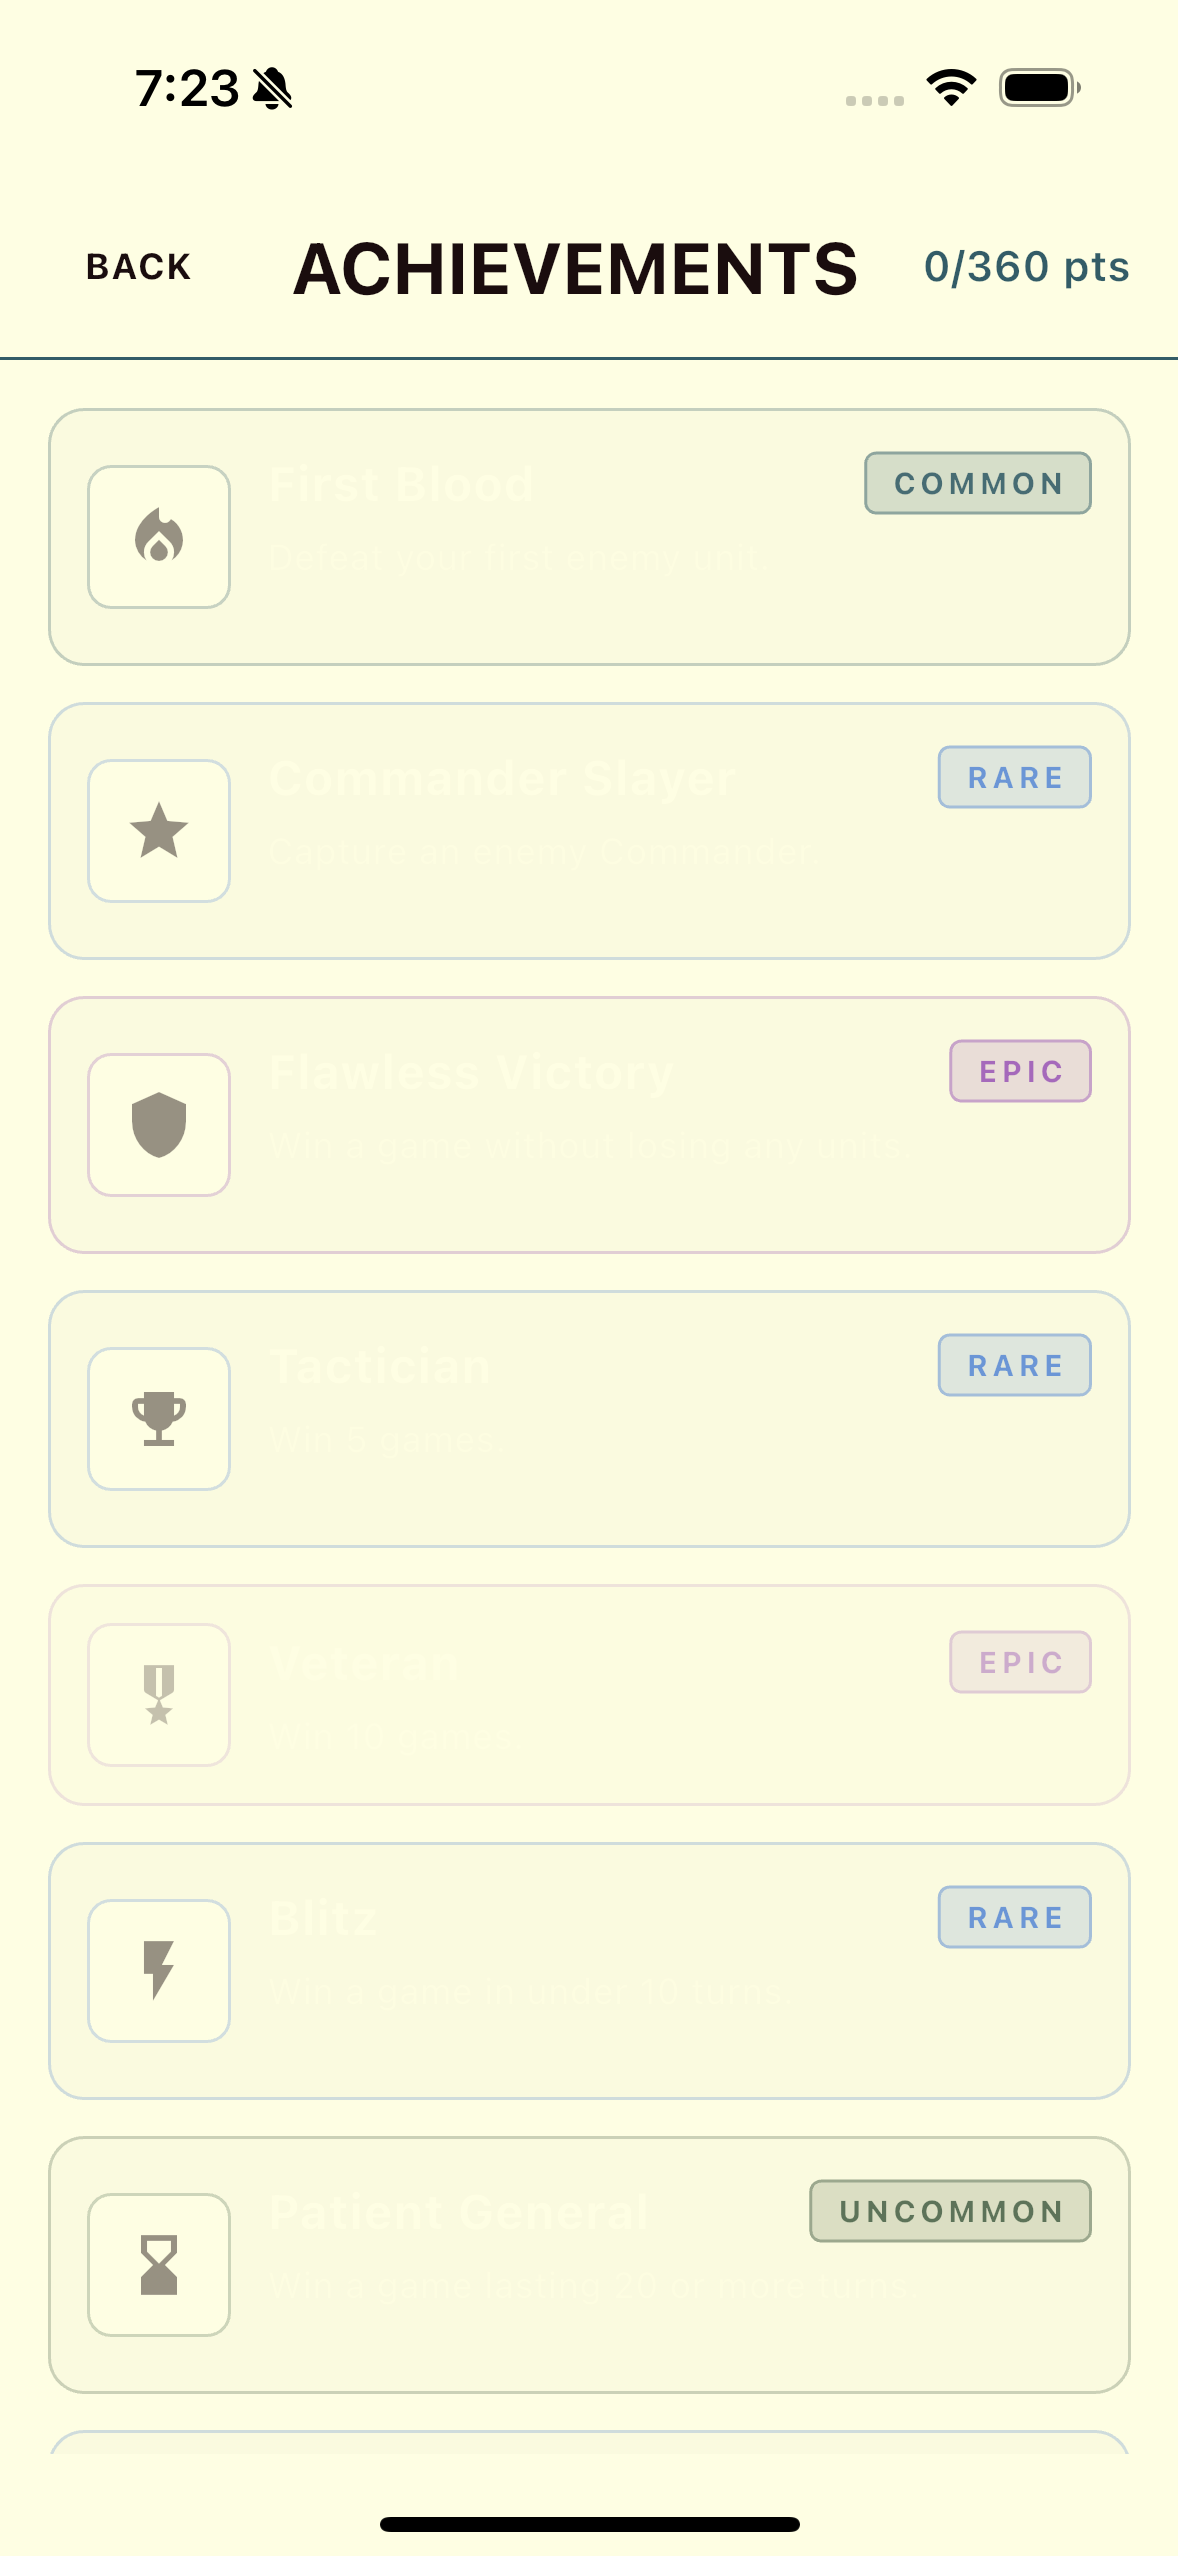
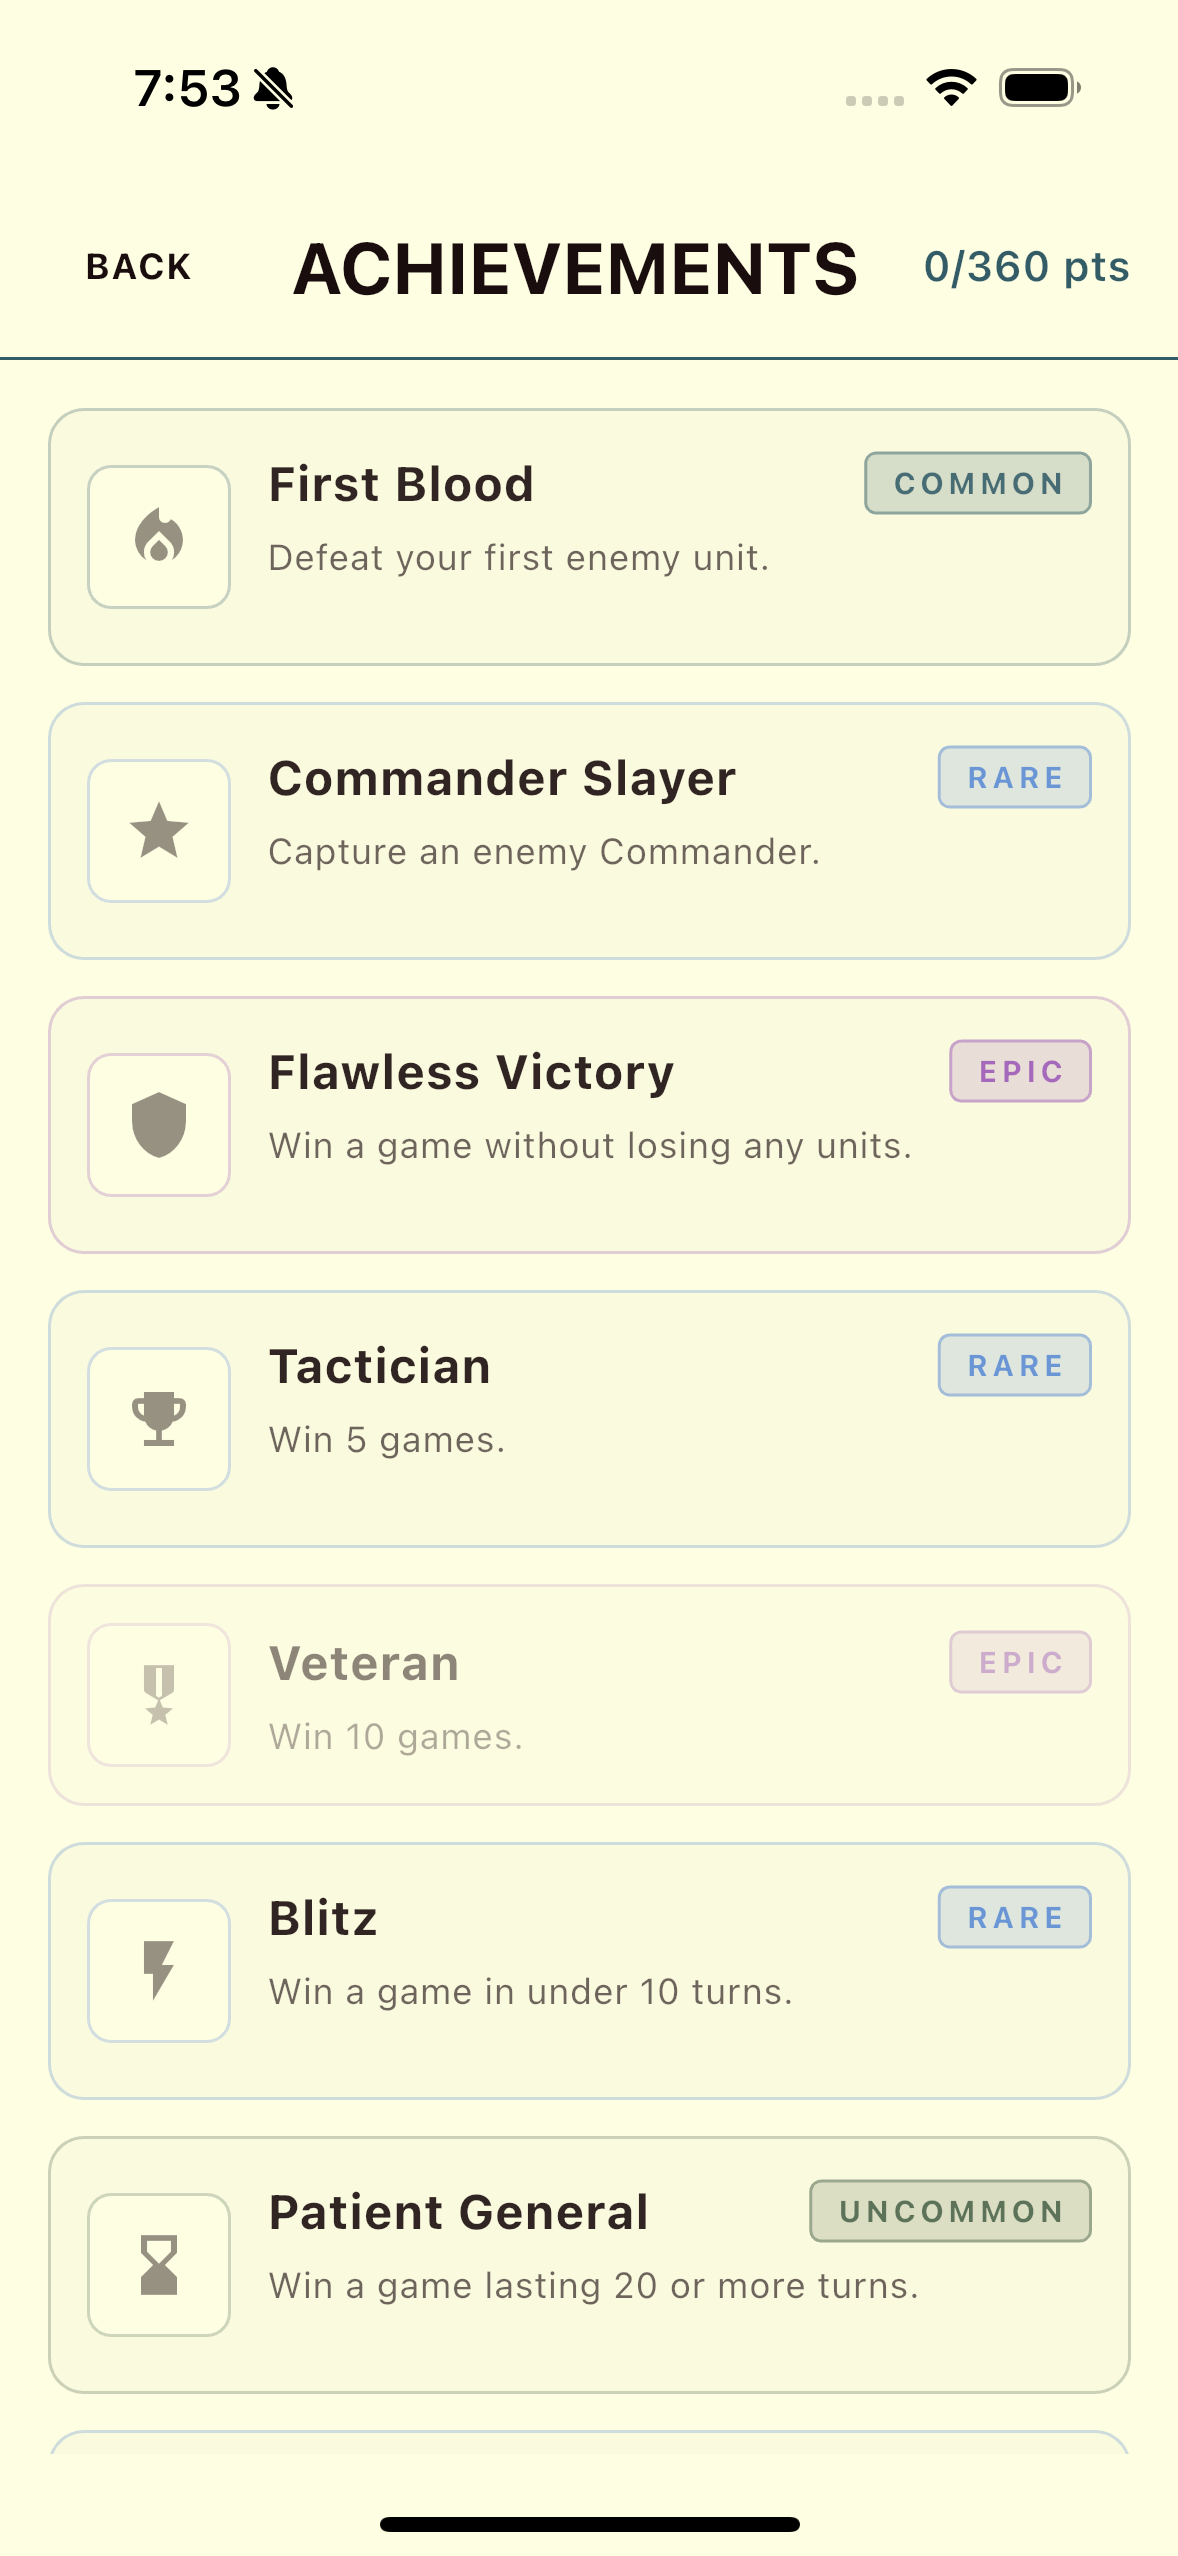
docs(tactical_grid): rewrite README to FDL standard and recapture achievements screenshot
Rewrite README with Kinetic Brutalism tone, badges, ecosystem position
diagram, related packages table, license section, and footer tagline.
Remove audioplayers from third-party deps (BR-094). Recapture
achievements_light.png with rebuilt app showing readable text (BR-093).

diff --git a/apps/tactical_grid/README.md b/apps/tactical_grid/README.md
@@ -1,12 +1,35 @@
-# Tactical Grid
+# tactical_grid
 
-**Turn-based tactical combat on a hex-free grid** — A Fifty Showcase App
+> Turn-based tactical combat on a grid — the fifty.dev ecosystem, battle-tested
 
-<p align="center">
-  <img src="docs/screenshots/battle_unit_selected.png" alt="Tactical Grid — Battle gameplay with unit selected" width="300"/>
-</p>
+[![License: MIT](https://img.shields.io/badge/License-MIT-blue.svg)](LICENSE)
+[![Flutter](https://img.shields.io/badge/Flutter-3.0.0+-02569B?logo=flutter)](https://flutter.dev)
+[![Tests](https://img.shields.io/badge/tests-382%20passing-success)](test/)
 
-Tactical Grid is a polished turn-based strategy game built with Flutter as part of the **Fifty Flutter Kit** ecosystem. Deploy six distinct unit types on an 8x8 board, outmaneuver your opponent, and capture their Commander to claim victory. Play locally against a friend or challenge the AI across three difficulty levels.
+---
+
+## Overview
+
+`tactical_grid` is not just a game. It is a SHOWCASE — a live-fire demonstration of the entire fifty.dev ecosystem working in concert. Six packages. One battlefield. Every design token, every theme variant, every audio channel, every achievement unlock, every tile on the board is driven by the Fifty Design Language stack.
+
+Deploy six distinct unit types on an 8x8 board. Outmaneuver your opponent. Capture their Commander. This is turn-based strategy built with Flutter, running on the full FDL pipeline from `fifty_tokens` to `fifty_map_engine`.
+
+Play locally against a friend or challenge the AI across three difficulty levels. The game is real. The architecture is the point.
+
+---
+
+## Getting Started
+
+```bash
+# From the monorepo root
+cd apps/tactical_grid
+
+# Get dependencies
+flutter pub get
+
+# Deploy to a connected device or simulator
+flutter run -d <device-id>
+```
 
 ---
 
@@ -22,6 +45,8 @@ Tactical Grid is a polished turn-based strategy game built with Flutter as part 
 
 ### Unit Roster
 
+Six combat units. Each with distinct movement patterns, stats, and special abilities.
+
 | Unit | HP | ATK | Movement | Ability |
 |------|:---:|:---:|----------|---------|
 | Commander | 5 | 2 | 1 tile, any direction | **Rally:** +1 ATK to adjacent allies (3-turn cooldown) |
@@ -33,11 +58,11 @@ Tactical Grid is a polished turn-based strategy game built with Flutter as part 
 
 ### Win Condition
 
-Capture (defeat) the enemy **Commander** to win the match.
+Capture (defeat) the enemy **Commander** to win the match. No point systems. No timers. One target. Total commitment.
 
 ### Board
 
-8x8 grid with six custom tile textures (dark, light, objective, obstacle, powerup, trap), rendered using `fifty_map_engine` — a Flame-based isometric engine.
+8x8 grid with six custom tile textures (dark, light, objective, obstacle, powerup, trap), rendered using `fifty_map_engine` — a Flame-based isometric engine built for the ecosystem.
 
 ### Audio
 
@@ -51,7 +76,7 @@ Full audio suite powered by `fifty_audio_engine`:
 
 ### Achievements
 
-10 achievements tracked via `fifty_achievement_engine` across Combat, Strategy, and Mastery categories — from Common to Legendary rarity. Examples include First Blood, Commander Slayer, Flawless Victory, Tactician, and Blitz.
+10 achievements tracked via `fifty_achievement_engine` across Combat, Strategy, and Mastery categories — from Common to Legendary rarity. First Blood, Commander Slayer, Flawless Victory, Tactician, Blitz. Earn them all or don't bother.
 
 ### Settings
 
@@ -64,11 +89,11 @@ A full settings page with persistent preferences:
 
 ### Turn Timer
 
-Configurable countdown per turn (default 60 seconds). Warning at 10s, critical at 5s with audio cues. Auto-skips on timeout.
+Configurable countdown per turn (default 60 seconds). Warning at 10s, critical at 5s with audio cues. Auto-skips on timeout. Hesitation is defeat.
 
 ### Theme Support
 
-Full light and dark mode support using `Theme.of(context).colorScheme` tokens across all pages.
+Full light and dark mode support using `Theme.of(context).colorScheme` tokens across all pages. Dark mode is the primary environment. Light mode exists for those who insist.
 
 ---
 
@@ -155,11 +180,11 @@ lib/
 | Package | Purpose |
 |---------|---------|
 | `fifty_tokens` | Design tokens (colors, spacing, typography) |
-| `fifty_theme` | Theme system |
-| `fifty_ui` | UI components (FiftyButton, etc.) |
-| `fifty_achievement_engine` | Achievement system |
+| `fifty_theme` | Theme system (dark/light mode) |
+| `fifty_ui` | UI components (FiftyButton, FiftyCard) |
 | `fifty_audio_engine` | Audio management (BGM, SFX, Voice) |
-| `fifty_map_engine` | Flame-based map and board rendering |
+| `fifty_achievement_engine` | Achievement tracking and display |
+| `fifty_map_engine` | Flame-based board rendering |
 
 ### Third-Party
 
@@ -167,7 +192,6 @@ lib/
 |---------|---------|
 | `get` | State management, routing, dependency injection |
 | `get_storage` | Local persistence |
-| `audioplayers` | Audio playback |
 | `loader_overlay` | Loading overlays |
 
 ---
@@ -180,33 +204,61 @@ lib/
 
 ---
 
-## Getting Started
+## Ecosystem Position
 
-```bash
-# From the monorepo root
-cd apps/tactical_grid
+`tactical_grid` is the **showcase application** of the fifty.dev ecosystem. Every package converges here.
 
-# Get dependencies
-flutter pub get
-
-# Run on a connected device or simulator
-flutter run -d <device-id>
 ```
+fifty_tokens -> fifty_theme -> fifty_ui
+                                  |
+fifty_audio_engine -> tactical_grid <- fifty_achievement_engine
+                                  |
+                       fifty_map_engine
+```
+
+This is where the ecosystem proves itself. Design tokens become themed surfaces. Themed surfaces become UI components. Audio engines drive battlefield ambiance. Achievement engines track combat milestones. The map engine renders the board. All of it, in one app, under fire.
 
 ---
 
-## Tests
+## Related Packages
 
-382 tests across 18 test files.
+| Package | Description |
+|---------|-------------|
+| [`fifty_tokens`](../../packages/fifty_tokens) | Design tokens — the DNA of Kinetic Brutalism |
+| [`fifty_theme`](../../packages/fifty_theme) | Flutter ThemeData integration |
+| [`fifty_ui`](../../packages/fifty_ui) | Component library (FiftyButton, FiftyCard) |
+| [`fifty_audio_engine`](../../packages/fifty_audio_engine) | Audio management (BGM, SFX, Voice) |
+| [`fifty_achievement_engine`](../../packages/fifty_achievement_engine) | Achievement tracking and display |
+| [`fifty_map_engine`](../../packages/fifty_map_engine) | Flame-based map and board rendering |
+
+---
+
+## Testing
 
 ```bash
 cd apps/tactical_grid
 flutter test
 ```
 
+**Results:** 382 passing tests across 18 test files. Full coverage of game logic, AI behavior, unit abilities, and UI state.
+
 ---
 
 ## Credits
 
-- **Development** — [Fifty.ai](https://fifty.ai)
+- **Development** — [fifty.dev](https://fifty.dev) (Mohamed Elamin)
 - **Sprite Generation** — [Higgsfield FLUX.2 Pro](https://higgsfield.ai)
+
+---
+
+## License
+
+MIT License - see [LICENSE](../../LICENSE) file for details.
+
+Copyright (c) 2025 fifty.dev (Mohamed Elamin)
+
+---
+
+**Part of the [fifty.dev ecosystem](https://fifty.dev) | Showcase App**
+
+*Deploy. Outmaneuver. Dominate.*
